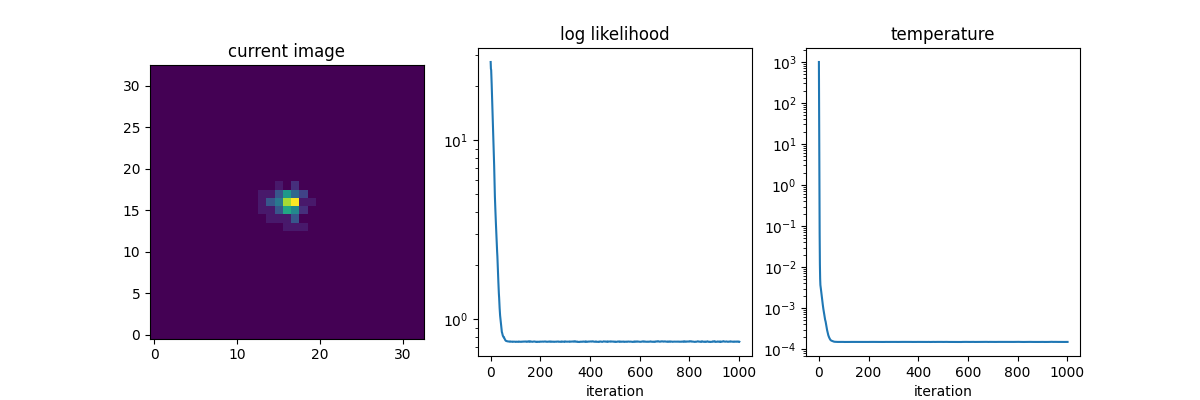
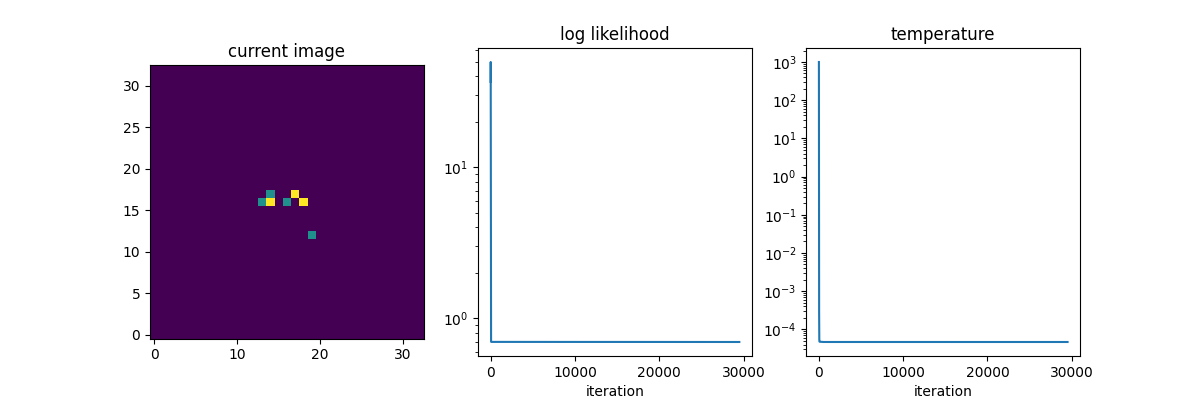
NDF forrection

diff --git a/PLred/imgrecon.py b/PLred/imgrecon.py
@@ -95,6 +95,7 @@ class BaseImageReconstructor:
         # convergence parameters
         self.burn_in_iter = burn_in_iter
         self.ndf = ndf if ndf is not None else np.sum(np.isfinite(data_err))
+        self.ndf_cor = self.ndf - n_element # corrected degrees of freedom
         self.ini_seed = seed
         self.ini_method = ini_method
         np.random.seed(seed)
@@ -572,7 +573,7 @@ class CouplingMapImageReconstructor(BaseImageReconstructor):
         '''
         current_observable = vec
         # chi^2 / 2
-        current_ll = np.nansum((current_observable - self.data)**2 / self.data_err**2) / self.ndf / 2
+        current_ll = np.nansum((current_observable - self.data)**2 / self.data_err**2) / self.ndf_cor / 2
         
         # if with_regul:
         #     if self.do_entropy_regul:
@@ -653,7 +654,7 @@ class BaseModelFitter:
         current_observable += point_source_flux * self.matrix[:, self.center * self.axis_len + self.center]
 
         # -chi^2 / 2
-        current_ll = -0.5 * np.nansum((current_observable - self.data)**2 / self.data_err**2) / self.ndf #/ 2
+        current_ll = -0.5 * np.nansum((current_observable - self.data)**2 / self.data_err**2) / (self.ndf - len(params)) #/ 2
         self._n += 1
         if (self.plot_every is not None) and (self._n % self.plot_every == 0):
             self.current_ll = current_ll

diff --git a/PLred/scripts/run_quick_reduction.py b/PLred/scripts/run_quick_reduction.py
@@ -161,14 +161,17 @@ if __name__ == "__main__":
             chi2 = 0
             (x,y) = param
             # print(x,y)
+            ndfs = 0
             for fibind in fibinds:
                 model = fitter.mapmodel.compute_vec(specind, fibind, x, y, n_trim=n).reshape((matsize,matsize))
                 data = fitter.mapmodel.normdata[n:-n,n:-n,fibind,specind]
                 datavar = fitter.mapmodel.datanormvar[n:-n,n:-n,fibind,specind]
 
                 chi2 += np.nansum((model-data)**2 / datavar)
-                ndf = np.sum(np.isfinite(datavar))
-            return chi2/ndf/len(fibinds)/2
+                ndfs += np.sum(np.isfinite(datavar))
+                # print(np.shape(datavar), np.sum(np.isfinite(datavar)))
+            ndfs -= len(param)
+            return chi2/ndfs/2
         
         all_opts = []
         all_funs = []
